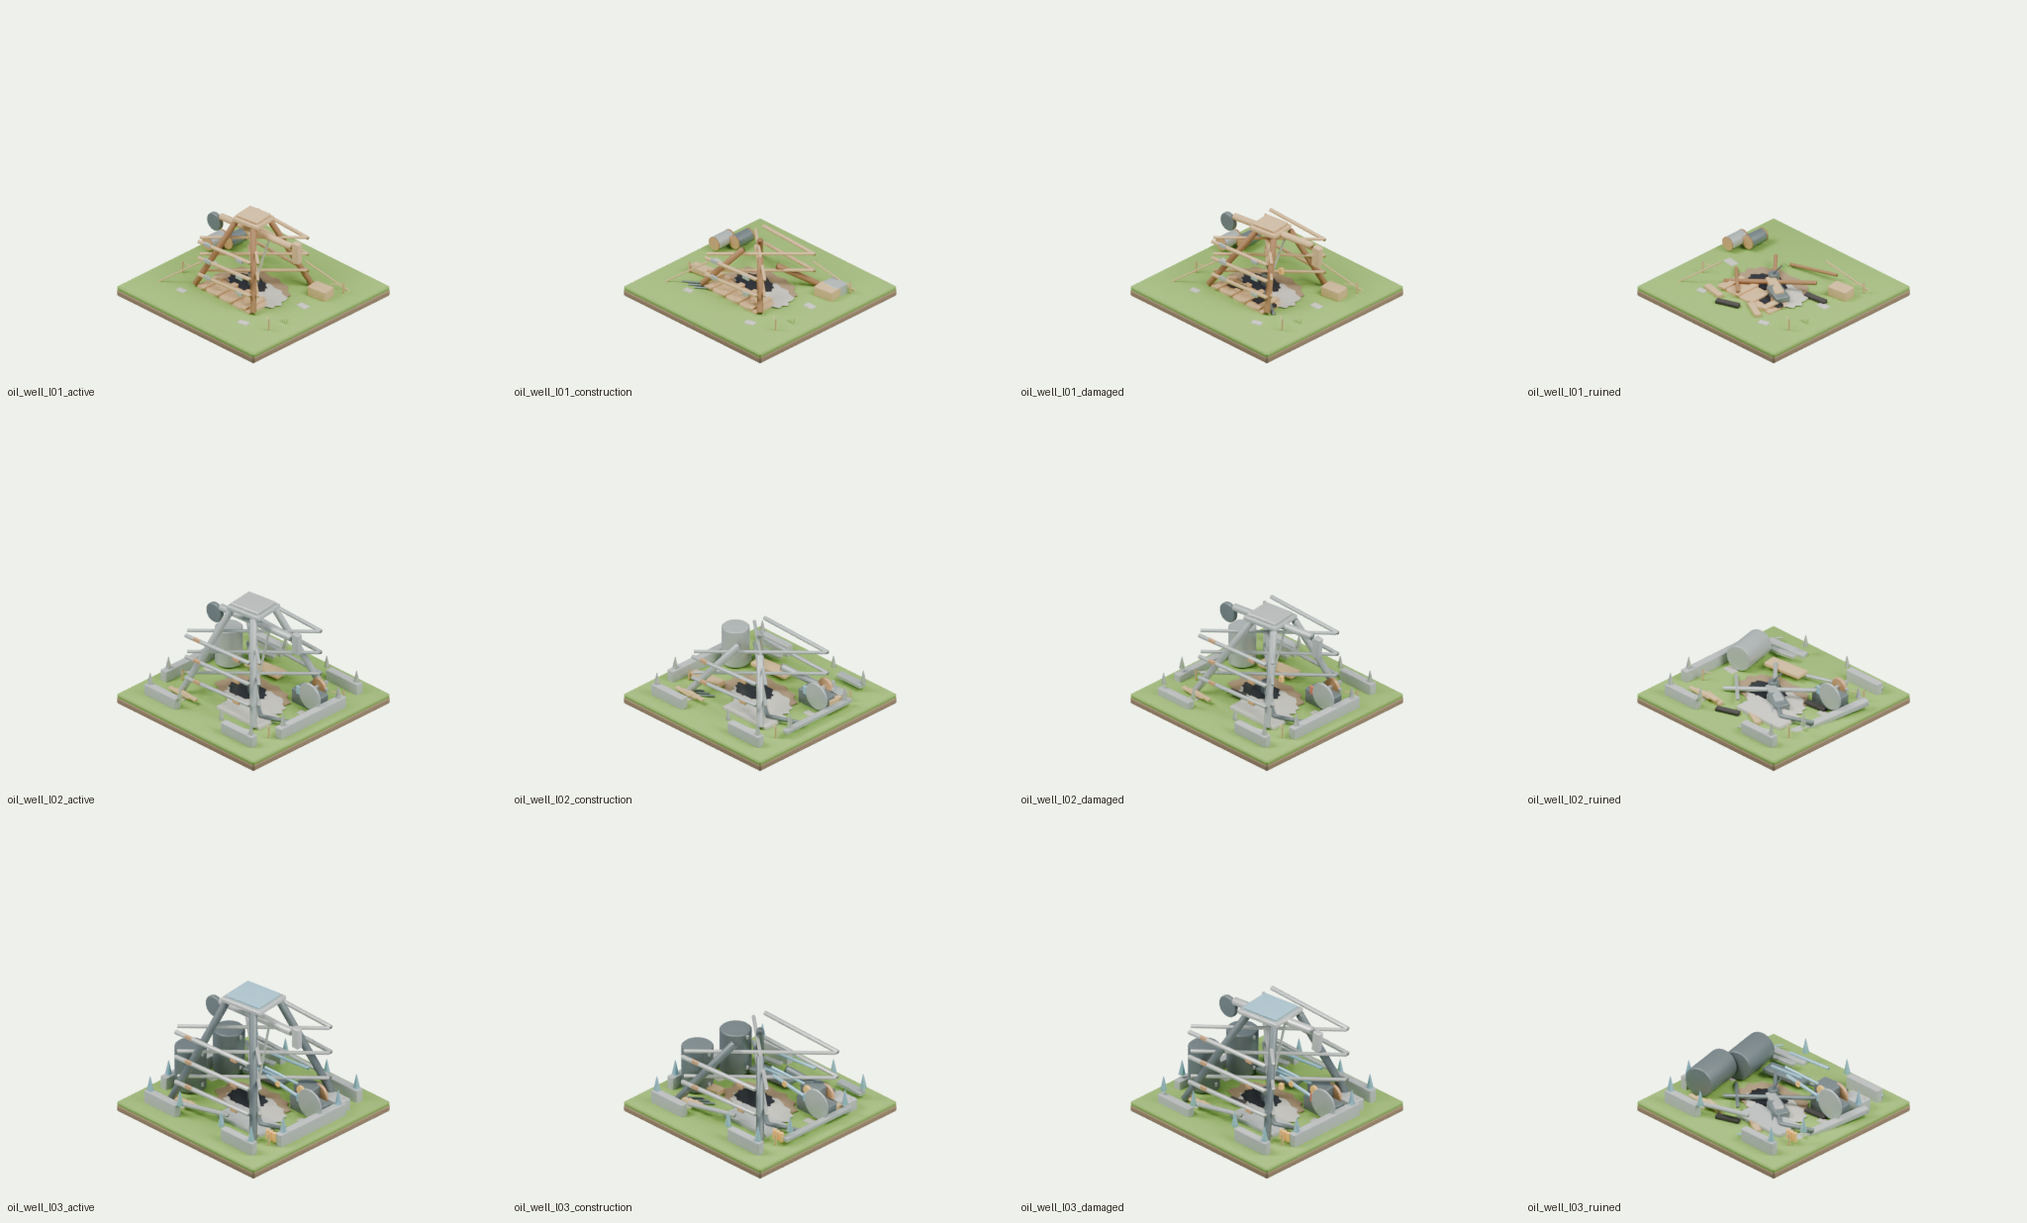
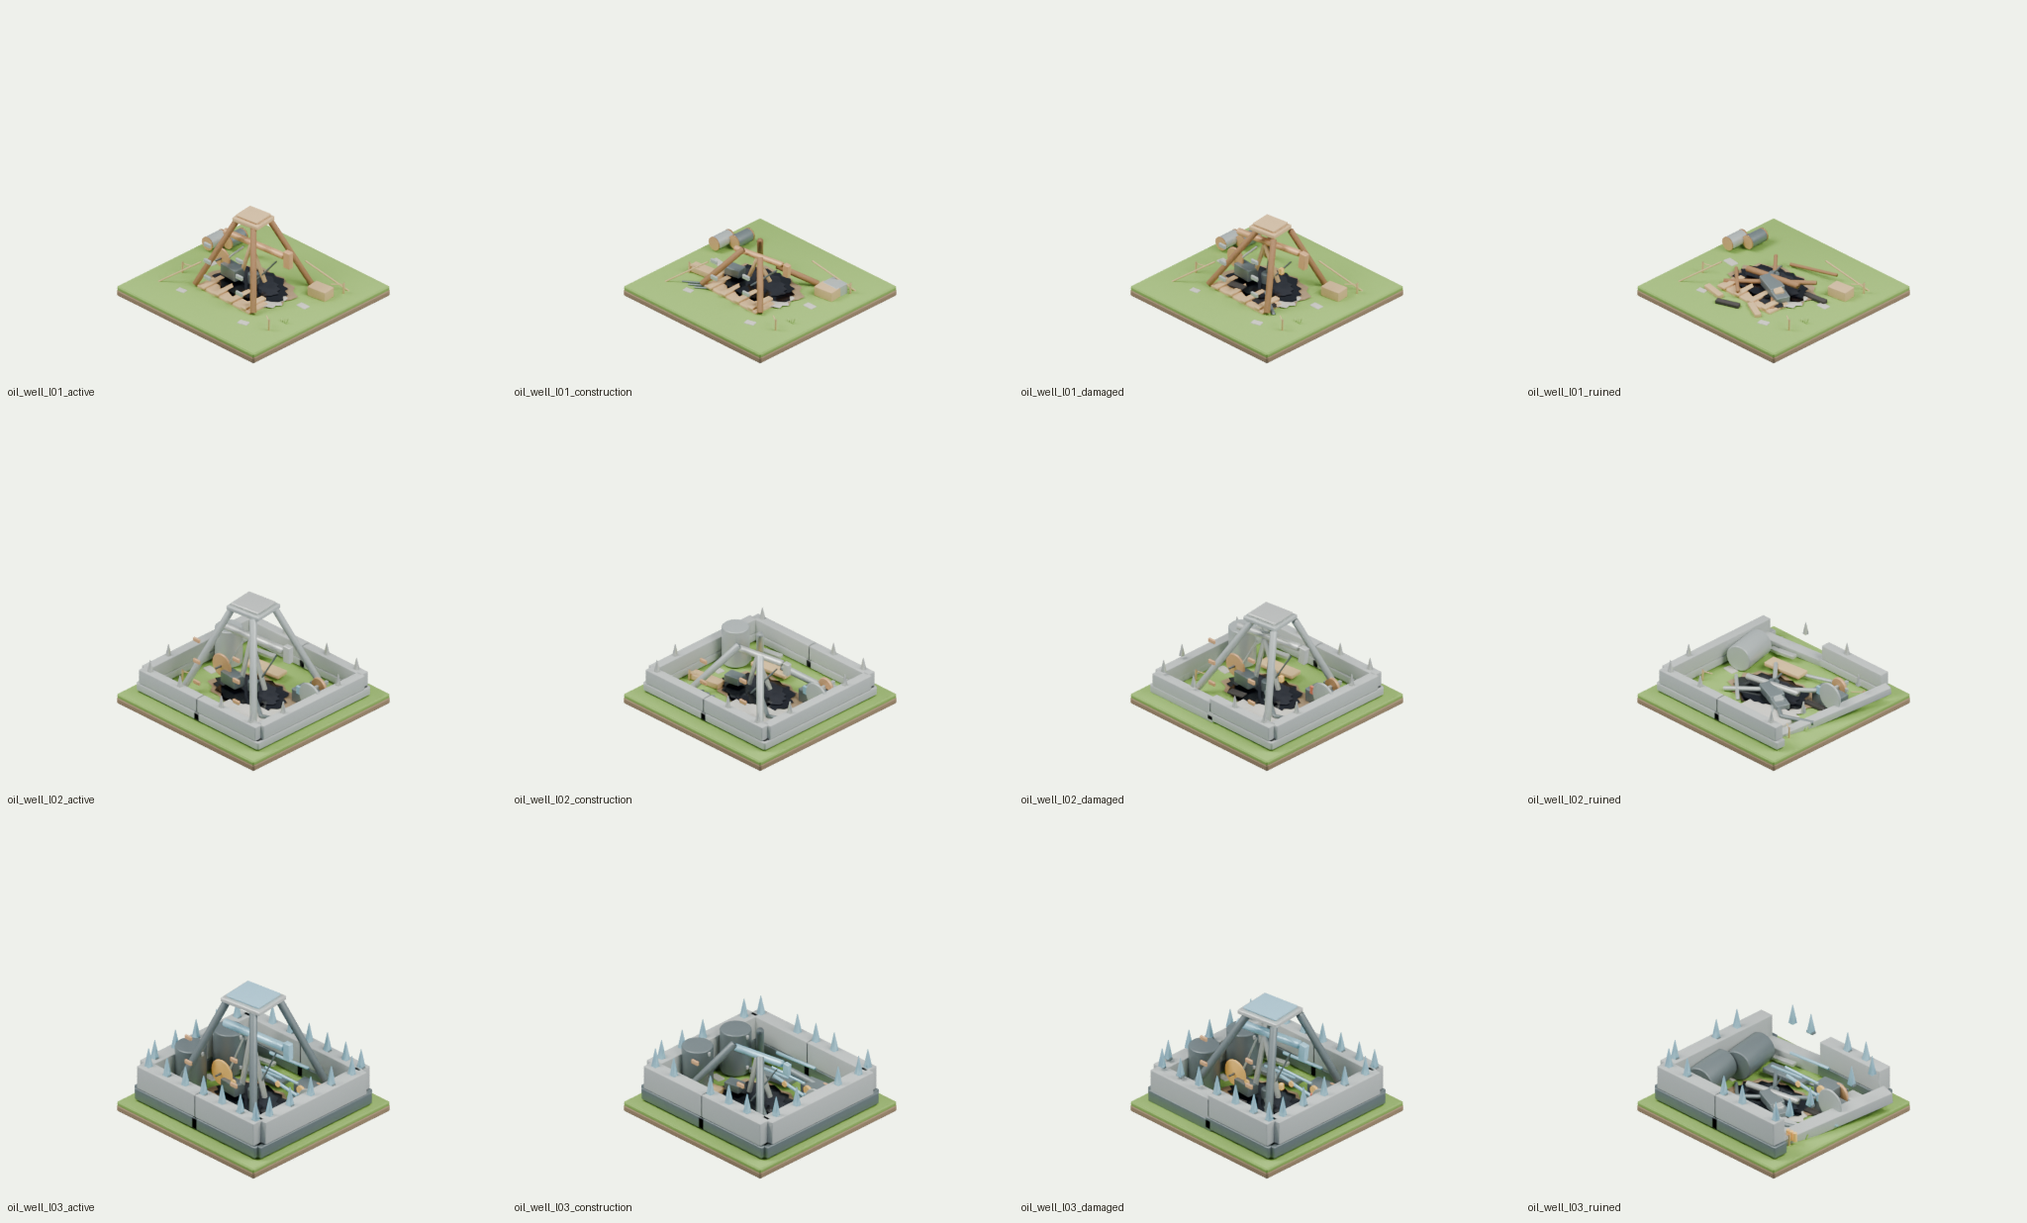
assets(oil-well): regenerate and connect building variants

diff --git a/frontend/src/game/renderers/buildingModelAssets.test.ts b/frontend/src/game/renderers/buildingModelAssets.test.ts
@@ -2,7 +2,7 @@ import { describe, expect, it } from 'vitest'
 
 import type { PlacedBuilding } from '../state/useGameStore'
 import { buildingModelAsset } from './buildingModelAssets'
-import { COIN_STORAGE_ASSET_REVISION, FLAX_FIELD_ASSET_REVISION, GLASS_WORKSHOP_ASSET_REVISION, HERB_BED_ASSET_REVISION, LUMBER_YARD_ASSET_REVISION, MINE_ASSET_REVISION, MUSHROOM_GROVE_ASSET_REVISION, OILSEED_FIELD_ASSET_REVISION, REED_BED_ASSET_REVISION, ROPE_YARD_ASSET_REVISION, SAND_QUARRY_ASSET_REVISION, SEED_GARDEN_ASSET_REVISION } from './buildingSpriteAssets'
+import { COIN_STORAGE_ASSET_REVISION, FLAX_FIELD_ASSET_REVISION, GLASS_WORKSHOP_ASSET_REVISION, HERB_BED_ASSET_REVISION, LUMBER_YARD_ASSET_REVISION, MINE_ASSET_REVISION, MUSHROOM_GROVE_ASSET_REVISION, OILSEED_FIELD_ASSET_REVISION, OIL_WELL_ASSET_REVISION, REED_BED_ASSET_REVISION, ROPE_YARD_ASSET_REVISION, SAND_QUARRY_ASSET_REVISION, SEED_GARDEN_ASSET_REVISION } from './buildingSpriteAssets'
 
 describe('building model assets', () => {
   it('connects lumber yard states to public glb models', () => {
@@ -182,6 +182,21 @@ describe('building model assets', () => {
     )
   })
 
+  it('connects oil well states to updated public glb models', () => {
+    expect(buildingModelAsset(oilWell({ status: 'active', state: 'active', health: 100, level: 1 }))).toBe(
+      `/assets/buildings/industry/oil_well/oil_well_l01_active.glb?v=${OIL_WELL_ASSET_REVISION}`,
+    )
+    expect(buildingModelAsset(oilWell({ status: 'construction', state: 'building', health: 100, level: 2 }))).toBe(
+      `/assets/buildings/industry/oil_well/oil_well_l02_construction.glb?v=${OIL_WELL_ASSET_REVISION}`,
+    )
+    expect(buildingModelAsset(oilWell({ status: 'active', state: 'active', health: 30, maxHealth: 220, level: 3 }))).toBe(
+      `/assets/buildings/industry/oil_well/oil_well_l03_damaged.glb?v=${OIL_WELL_ASSET_REVISION}`,
+    )
+    expect(buildingModelAsset(oilWell({ status: 'active', state: 'ruined', health: 0, level: 99 }))).toBe(
+      `/assets/buildings/industry/oil_well/oil_well_l03_ruined.glb?v=${OIL_WELL_ASSET_REVISION}`,
+    )
+  })
+
   it('connects coin storage states to public glb models', () => {
     expect(buildingModelAsset(coinStorage({ status: 'active', state: 'active', health: 100, level: 1 }))).toBe(
       `/assets/buildings/storage/coin_storage/coin_storage_l01_active.glb?v=${COIN_STORAGE_ASSET_REVISION}`,
@@ -330,6 +345,19 @@ function mine(overrides: Pick<PlacedBuilding, 'status' | 'state' | 'health' | 'l
     id: 'mine-1',
     kind: 'mine',
     name: 'Шахта',
+    tile: { x: 0, y: 0 },
+    owner: 'test',
+    startedAt: 0,
+    completesAt: null,
+    ...overrides,
+  }
+}
+
+function oilWell(overrides: Pick<PlacedBuilding, 'status' | 'state' | 'health' | 'level'> & Partial<PlacedBuilding>): PlacedBuilding {
+  return {
+    id: 'oil-well-1',
+    kind: 'oil_well',
+    name: 'Нефтяная вышка',
     tile: { x: 0, y: 0 },
     owner: 'test',
     startedAt: 0,

diff --git a/frontend/src/game/renderers/buildingSpriteAssets.test.ts b/frontend/src/game/renderers/buildingSpriteAssets.test.ts
@@ -2,7 +2,7 @@ import { describe, expect, it } from 'vitest'
 
 import type { PlacedBuilding } from '../state/useGameStore'
 import { resolveBuildingAtlasSource } from './buildingRegistry'
-import { COIN_STORAGE_ASSET_REVISION, FLAX_FIELD_ASSET_REVISION, GLASS_WORKSHOP_ASSET_REVISION, HERB_BED_ASSET_REVISION, LUMBER_YARD_ASSET_REVISION, MINE_ASSET_REVISION, MUSHROOM_GROVE_ASSET_REVISION, OILSEED_FIELD_ASSET_REVISION, REED_BED_ASSET_REVISION, ROPE_YARD_ASSET_REVISION, SAND_QUARRY_ASSET_REVISION, SEED_GARDEN_ASSET_REVISION, buildingSpriteAsset } from './buildingSpriteAssets'
+import { COIN_STORAGE_ASSET_REVISION, FLAX_FIELD_ASSET_REVISION, GLASS_WORKSHOP_ASSET_REVISION, HERB_BED_ASSET_REVISION, LUMBER_YARD_ASSET_REVISION, MINE_ASSET_REVISION, MUSHROOM_GROVE_ASSET_REVISION, OILSEED_FIELD_ASSET_REVISION, OIL_WELL_ASSET_REVISION, REED_BED_ASSET_REVISION, ROPE_YARD_ASSET_REVISION, SAND_QUARRY_ASSET_REVISION, SEED_GARDEN_ASSET_REVISION, buildingSpriteAsset } from './buildingSpriteAssets'
 
 describe('building sprite assets', () => {
   it('connects visible building kinds to png sprites', () => {
@@ -56,6 +56,12 @@ describe('building sprite assets', () => {
     )
     expect(buildingSpriteAsset(building({ kind: 'mine', level: 11, status: 'active', state: 'active', health: 20, maxHealth: 2562 }))).toBe(
       `/assets/buildings/industry/mine/mine_l11_damaged.png?v=${MINE_ASSET_REVISION}`,
+    )
+    expect(buildingSpriteAsset(building({ kind: 'oil_well', level: 3, status: 'active', state: 'active', health: 100 }))).toBe(
+      `/assets/buildings/industry/oil_well/oil_well_l03_active.png?v=${OIL_WELL_ASSET_REVISION}`,
+    )
+    expect(buildingSpriteAsset(building({ kind: 'oil_well', level: 2, status: 'active', state: 'ruined', health: 0 }))).toBe(
+      `/assets/buildings/industry/oil_well/oil_well_l02_ruined.png?v=${OIL_WELL_ASSET_REVISION}`,
     )
     expect(buildingSpriteAsset(building({ kind: 'coin_storage', level: 2, status: 'construction', state: 'building', health: 100 }))).toBe(
       `/assets/buildings/storage/coin_storage/coin_storage_l02_construction.png?v=${COIN_STORAGE_ASSET_REVISION}`,

diff --git a/frontend/src/game/renderers/buildingAssetManifests.ts b/frontend/src/game/renderers/buildingAssetManifests.ts
@@ -41,7 +41,7 @@ export const FLAX_FIELD_ASSET_REVISION = 'mcp-midpoly-l01-l10-2026-10-08'
 export const REED_BED_ASSET_REVISION = 'mcp-midpoly-l01-l10-2026-10-09'
 export const OILSEED_FIELD_ASSET_REVISION = 'mcp-midpoly-l01-l07-2026-10-09'
 export const ROPE_YARD_ASSET_REVISION = 'mcp-midpoly-l01-l08-2026-10-08'
-export const OIL_WELL_ASSET_REVISION = 'aeolian-style-runtime-2026-10-14'
+export const OIL_WELL_ASSET_REVISION = 'oil-well-no-side-rods-2026-10-14'
 
 const l1To3 = [1, 2, 3] as const
 const l1To5 = [1, 2, 3, 4, 5] as const
@@ -54,6 +54,15 @@ const l1To12 = [1, 2, 3, 4, 5, 6, 7, 8, 9, 10, 11, 12] as const
 const l1To13 = [1, 2, 3, 4, 5, 6, 7, 8, 9, 10, 11, 12, 13] as const
 const coreStates = ['active', 'construction', 'damaged'] as const
 const coreWithRuinedStates = ['active', 'construction', 'damaged', 'ruined'] as const
+const modularWallRender = {
+  anchor: [128, 160],
+  render: {
+    mode: 'sprite',
+    size: [256, 256],
+    preferredFormat: 'png',
+    fallbackFormat: 'png',
+  },
+} as const
 
 export const buildingAssetManifests: readonly BuildingAssetManifest[] = [
   {
@@ -427,6 +436,7 @@ export const buildingAssetManifests: readonly BuildingAssetManifest[] = [
     spriteSource: 'public',
     modelSource: 'public',
     shapeDefault: 'single',
+    ...modularWallRender,
   },
   {
     kind: 'stone_wall',
@@ -438,6 +448,7 @@ export const buildingAssetManifests: readonly BuildingAssetManifest[] = [
     spriteSource: 'public',
     modelSource: 'public',
     shapeDefault: 'single',
+    ...modularWallRender,
   },
   {
     kind: 'concrete_wall',
@@ -449,6 +460,7 @@ export const buildingAssetManifests: readonly BuildingAssetManifest[] = [
     spriteSource: 'public',
     modelSource: 'public',
     shapeDefault: 'single',
+    ...modularWallRender,
   },
   {
     kind: 'modern_wall',
@@ -460,5 +472,6 @@ export const buildingAssetManifests: readonly BuildingAssetManifest[] = [
     spriteSource: 'public',
     modelSource: 'public',
     shapeDefault: 'single',
+    ...modularWallRender,
   },
 ]

diff --git a/frontend/src/game/renderer/terrainTextures.test.ts b/frontend/src/game/renderer/terrainTextures.test.ts
@@ -31,6 +31,11 @@ describe('terrain textures', () => {
     expect(terrainPngTextureUrl({ terrain: 'ruins' })).toBe('/assets/terrain/tiles/ruins.png')
   })
 
+  it('connects generated ruins variants to runtime terrain sprites', () => {
+    expect(terrainTextureUrl({ terrain: 'ruins_archive' })).toBe('/assets/terrain/tiles/ruins_archive.png')
+    expect(terrainTextureUrl({ terrain: 'ruins_wind_shrine' })).toBe('/assets/terrain/tiles/ruins_wind_shrine.png')
+  })
+
   it('provides a regenerated road sprite', () => {
     expect(hasTerrainTexture({ terrain: 'road' })).toBe(true)
     expect(terrainTextureUrl({ terrain: 'road' })).toBe('/assets/terrain/tiles/road.png')
@@ -61,6 +66,8 @@ describe('terrain textures', () => {
     expect(loadTerrainAsset).toHaveBeenCalledWith('/assets/terrain/tiles/mountain.png')
     expect(loadTerrainAsset).toHaveBeenCalledWith('/assets/terrain/tiles/oil_well.png')
     expect(loadTerrainAsset).toHaveBeenCalledWith('/assets/terrain/tiles/ruins.png')
+    expect(loadTerrainAsset).toHaveBeenCalledWith('/assets/terrain/tiles/ruins_archive.png')
+    expect(loadTerrainAsset).toHaveBeenCalledWith('/assets/terrain/tiles/ruins_wind_shrine.png')
     expect(loadTerrainAsset).toHaveBeenCalledWith('/assets/terrain/tiles/road.png')
     expect(loadTerrainAsset).toHaveBeenCalledWith('/assets/terrain/tiles/forest_thinned.png')
     expect(loadTerrainAsset).toHaveBeenCalledWith('/assets/terrain/tiles/forest_sparse.png')

diff --git a/frontend/src/game/renderer/terrainTextures.ts b/frontend/src/game/renderer/terrainTextures.ts
@@ -1,9 +1,23 @@
 import { Assets } from 'pixi.js'
 import type { WorldTile } from '../../shared/contracts'
 
-const TEXTURED_TERRAINS = new Set(['grass', 'forest', 'water', 'mountain', 'road', 'oil_well', 'ruins'])
+const RUINS_VARIANTS = [
+  'ruins_town_square',
+  'ruins_archive',
+  'ruins_mint',
+  'ruins_storage',
+  'ruins_greenhouse',
+  'ruins_water_station',
+  'ruins_bastion',
+  'ruins_mechanic_workshop',
+  'ruins_wind_shrine',
+  'ruins_ore_obelisk',
+  'ruins_rift_watch',
+  'ruins_river_lighthouse',
+] as const
+const TEXTURED_TERRAINS = new Set(['grass', 'forest', 'water', 'mountain', 'road', 'oil_well', 'ruins', ...RUINS_VARIANTS])
 const TERRAIN_SPRITES = [...TEXTURED_TERRAINS, 'forest_thinned', 'forest_sparse']
-type TerrainTile = Pick<WorldTile, 'terrain'> & Partial<Pick<WorldTile, 'forest_density'>>
+type TerrainTile = { terrain: string } & Partial<Pick<WorldTile, 'forest_density'>>
 
 export const TERRAIN_SPRITE = {
   width: 512,

diff --git a/frontend/src/game/renderer/objectLayer/objectDrawData.test.ts b/frontend/src/game/renderer/objectLayer/objectDrawData.test.ts
@@ -27,6 +27,17 @@ describe('object draw data', () => {
     )
   })
 
+  it('draws wooden walls as single-tile isometric sprites', () => {
+    const wall = building({ id: 'wall-1', kind: 'wooden_wall', tile: { x: 0, y: 0 } })
+    const neighbor = building({ id: 'wall-2', kind: 'wooden_wall', tile: { x: 1, y: 0 } })
+
+    expect(buildingDrawCommands([wall], { allBuildings: [wall, neighbor] })[0]).toMatchObject({
+      textureUrl: '/assets/buildings/roads/wooden_wall/wooden_wall_end_e_active.png',
+      anchor: { x: 0.5, y: 0.625 },
+      size: { width: 256, height: 256 },
+    })
+  })
+
   it('uses manifest sprite metrics for 512x512 building sprites', () => {
     const [command] = buildingDrawCommands([building({ kind: 'mine' })])
 

diff --git a/tools/assets/blender/generate_oil_well_models.py b/tools/assets/blender/generate_oil_well_models.py
@@ -27,7 +27,8 @@ OUT_DIR = ROOT / "frontend" / "public" / "assets" / "buildings" / "industry" / "
 ASSET_ID = "oil_well"
 LEVELS = (1, 2, 3)
 STATES = ("active", "construction", "damaged", "ruined")
-REVISION = "aeolian-style-runtime-2026-10-14"
+REVISION = "oil-well-no-side-rods-2026-10-14"
+BACKUP_NAME = "backup_2026-10-14_pre_remove_side_rods"
 BLEND_PATH = OUT_DIR / "oil_well_levels.blend"
 REPORT_PATH = OUT_DIR / "generation-report.json"
 ROUNDTRIP_PATH = OUT_DIR / "roundtrip-validation.json"
@@ -201,8 +202,9 @@ def add_ground(level, state):
     real_city_ground.add_ground_tile(CURRENT_COLLECTION, MATS, prefix=ASSET_ID, include_path=False)
     irregular_pool("oil_stained_ground", 0.0, -0.02, 0.090, 0.96, 0.64, "earth", level * 7)
     irregular_pool("gravel_work_area", 0.22, -0.18, 0.098, 0.72, 0.42, "gravel", 80 + level)
-    irregular_pool("deep_black_oil_pit", -0.02, -0.04, 0.116, 0.66, 0.48, "oil_deep", level * 13, rings=2, segments=36)
-    irregular_pool("glossy_oil_pool", -0.03, -0.04, 0.128, 0.52, 0.36, "oil", level * 17, rings=2, segments=36)
+    irregular_pool("deep_black_oil_pit", -0.02, -0.04, 0.116, 0.82, 0.58, "oil_deep", level * 13, rings=2, segments=36)
+    irregular_pool("glossy_oil_pool", -0.03, -0.04, 0.128, 0.64, 0.44, "oil", level * 17, rings=2, segments=36)
+    irregular_pool("visible_front_oil_shaft", -0.05, -0.30, 0.152, 0.54, 0.28, "oil_deep", 180 + level, rings=2, segments=32)
     if state in {"damaged", "ruined"}:
         irregular_pool("fresh_oil_leak", 0.42, -0.52, 0.120, 0.34, 0.16, "oil", 44 + level)
     for i, (x, y) in enumerate(((-1.42, 0.76), (1.36, -0.96), (-1.28, -0.58), (1.38, 0.98))):
@@ -337,8 +339,8 @@ def add_pumpjack_mechanism(level, state, height, tilt):
         beam("fallen_pumpjack_walking_beam", (-0.58, -0.10, 0.24), (0.66, -0.02, 0.34), 0.060, "beam" if level == 1 else "steel", vertices=10)
         beam("bent_pump_rod_to_oil_pit", (0.08, -0.02, 0.26), (-0.08, -0.04, 0.12), 0.022, "dark_metal", vertices=8)
         return
-    body_role = "wood" if level == 1 else "dark_metal"
-    beam_role = "beam" if level == 1 else ("steel" if level == 2 else "aeolian")
+    body_role = "dark_metal"
+    beam_role = "copper" if level == 1 else ("steel" if level == 2 else "aeolian")
     support_role = "wood" if level == 1 else "steel"
     completion = {"active": 1.0, "construction": 0.55, "damaged": 0.86}.get(state, 1.0)
     base_z = 0.20
@@ -352,6 +354,11 @@ def add_pumpjack_mechanism(level, state, height, tilt):
             box(f"internal_flywheel_spoke_{angle:.1f}", (-0.64, -0.18, base_z + 0.28), (0.34, 0.035, 0.040), "dark_metal", 0.004, rotation=(0, 0, angle))
     else:
         box("uninstalled_pumpjack_engine_block", (-0.48, -0.18, base_z + 0.08), (0.34, 0.24, 0.16), body_role, 0.014, rotation=(0, 0, 0.16))
+        beam("construction_pumpjack_left_support", (-0.18, -0.10, base_z + 0.05), (0.00, -0.08, frame_top), 0.034 + 0.005 * level, support_role, vertices=8)
+        beam("construction_pumpjack_right_support", (0.24, 0.02, base_z + 0.05), (0.00, -0.08, frame_top), 0.034 + 0.005 * level, support_role, vertices=8)
+        beam("construction_unmounted_walking_beam", (-0.54, -0.10, frame_top + 0.02), (0.56, 0.02, frame_top + 0.06), 0.050 + 0.006 * level, beam_role, vertices=10)
+        box("construction_pumpjack_horsehead", (0.66, 0.04, frame_top - 0.02), (0.13, 0.10, 0.25), beam_role, 0.012, rotation=(0, 0.08, 0.02))
+        beam("construction_sucker_rod_into_black_pit", (0.46, -0.02, frame_top - 0.08), (-0.02, -0.22, 0.150), 0.018, "dark_metal", vertices=8)
     if state != "construction":
         beam("pumpjack_left_support", (-0.22, -0.10, base_z + 0.06), (0.02, -0.08, frame_top), 0.036 + 0.006 * level, support_role, vertices=8)
         beam("pumpjack_right_support", (0.28, 0.02, base_z + 0.06), (0.02, -0.08, frame_top), 0.036 + 0.006 * level, support_role, vertices=8)
@@ -384,24 +391,11 @@ def add_derrick(level, state):
             if construction and i == 2:
                 target = (tx, ty, height * 0.34)
             beam(f"derrick_leg_{i}", (bx, by, 0.11), target, 0.052 + level * 0.008, leg_role, vertices=12)
+        completed_height = height * completion
         for z_factor in (0.24, 0.48, 0.72):
             if z_factor > completion + 0.05:
                 continue
             z = height * z_factor
-            wall_radius = 0.028 + level * 0.004
-            # Each face is braced inside its own plane, forming a closed cage instead of rods jutting outward.
-            beam(f"derrick_front_rail_{z_factor}", (-spread * 0.88, -spread, z), (spread * 0.88 + tilt * 0.30, -spread, z + 0.03), wall_radius, brace_role)
-            beam(f"derrick_back_rail_{z_factor}", (-spread * 0.88, spread, z + 0.03), (spread * 0.88 + tilt * 0.30, spread, z), wall_radius, brace_role)
-            beam(f"derrick_left_rail_{z_factor}", (-spread, -spread * 0.88, z), (-spread + tilt * 0.15, spread * 0.88, z + 0.03), wall_radius, brace_role)
-            beam(f"derrick_right_rail_{z_factor}", (spread, -spread * 0.88, z + 0.03), (spread + tilt * 0.15, spread * 0.88, z), wall_radius, brace_role)
-            beam(f"derrick_front_x_a_{z_factor}", (-spread * 0.72, -spread, z - 0.10), (spread * 0.72 + tilt * 0.25, -spread, z + 0.15), wall_radius * 0.78, brace_role)
-            beam(f"derrick_front_x_b_{z_factor}", (spread * 0.72 + tilt * 0.25, -spread, z - 0.10), (-spread * 0.72, -spread, z + 0.15), wall_radius * 0.78, brace_role)
-            beam(f"derrick_back_x_a_{z_factor}", (-spread * 0.72, spread, z - 0.10), (spread * 0.72 + tilt * 0.25, spread, z + 0.15), wall_radius * 0.78, brace_role)
-            beam(f"derrick_back_x_b_{z_factor}", (spread * 0.72 + tilt * 0.25, spread, z - 0.10), (-spread * 0.72, spread, z + 0.15), wall_radius * 0.78, brace_role)
-            beam(f"derrick_left_x_a_{z_factor}", (-spread, -spread * 0.72, z - 0.10), (-spread + tilt * 0.12, spread * 0.72, z + 0.15), wall_radius * 0.78, brace_role)
-            beam(f"derrick_left_x_b_{z_factor}", (-spread + tilt * 0.12, spread * 0.72, z - 0.10), (-spread, -spread * 0.72, z + 0.15), wall_radius * 0.78, brace_role)
-            beam(f"derrick_right_x_a_{z_factor}", (spread, -spread * 0.72, z - 0.10), (spread + tilt * 0.12, spread * 0.72, z + 0.15), wall_radius * 0.78, brace_role)
-            beam(f"derrick_right_x_b_{z_factor}", (spread + tilt * 0.12, spread * 0.72, z - 0.10), (spread, -spread * 0.72, z + 0.15), wall_radius * 0.78, brace_role)
             for x in (-spread * 0.55, spread * 0.55):
                 box(f"derrick_bolt_plate_{z_factor}_{x}", (x + tilt * 0.25, -spread - 0.025, z + 0.035), (0.16, 0.045, 0.075), "copper" if level >= 2 else "metal", 0.006)
         if not construction:
@@ -647,7 +641,7 @@ def write_manifest():
         "revision": REVISION,
         "style": "Aeolian bright fantasy stylized mid-poly",
         "runtime_integration": "connected to frontend building registry through oil_well asset family",
-        "backup_of_previous_runtime": "backup_2026-10-14_pre_style_regen",
+        "backup_of_previous_runtime": BACKUP_NAME,
         "assets": manifest_entries,
     }
     (OUT_DIR / "manifest.json").write_text(
@@ -664,9 +658,9 @@ def write_manifest():
                 "material_resources": {
                     "metal": "level 1 worn metal pump, fasteners, bands and barrels",
                     "planks": "level 1 plank deck, wooden derrick beams, tool crate and construction stacks",
-                    "oil": "glossy black oil pool and localized damaged-state leaks",
+                    "oil": "deep black open oil pit, visible front shaft and localized damaged-state leaks",
                 },
-                "backup_of_previous_runtime": "backup_2026-10-14_pre_style_regen",
+                "backup_of_previous_runtime": BACKUP_NAME,
             },
             ensure_ascii=False,
             indent=2,
